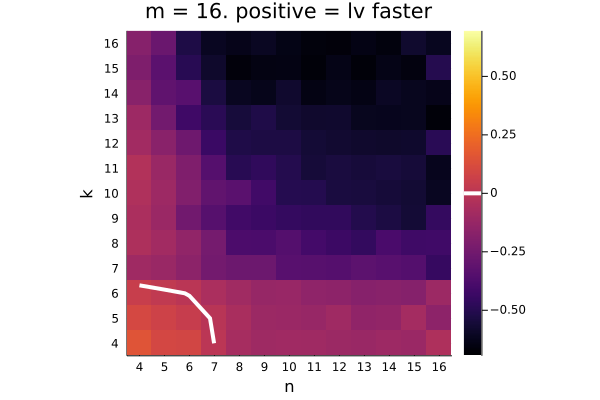
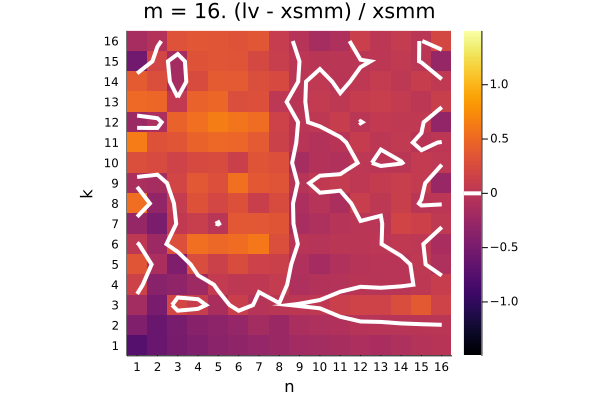
use loopvectorization master, use static matrix sizes, add macro only to smm bit, benchmark m=1,2,4,8,16 cause there seems to be a bug for non-2^k m's in lv

diff --git a/readme.md b/readme.md
@@ -8,7 +8,7 @@ cd smm-bench
 make AVX=1 -j
 ```
 
-color scale is (xsmm - lv) / (|xsmm| + |lv|)
+color scale is (lv - xsmm) / xsmm
 
 ![plot_4.png](plot_4.png)
 
